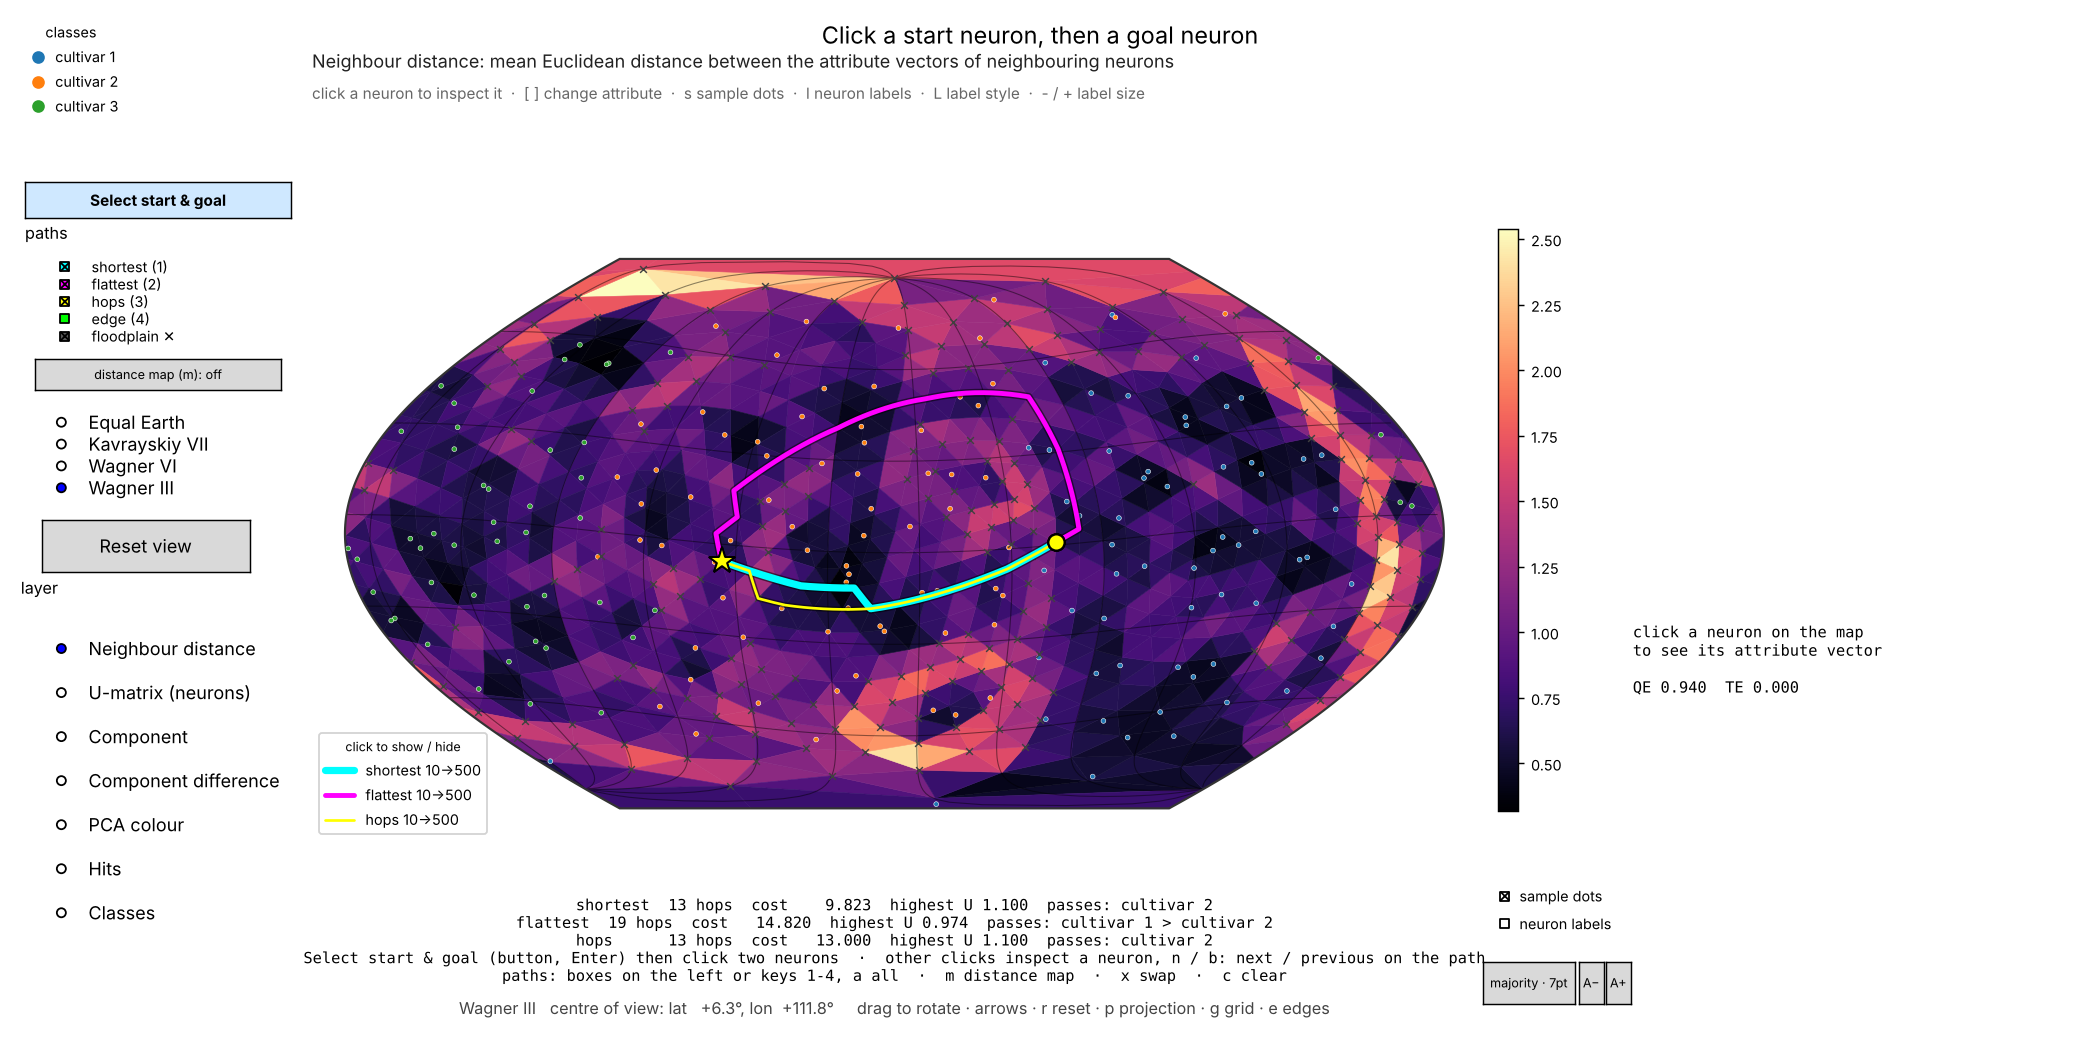
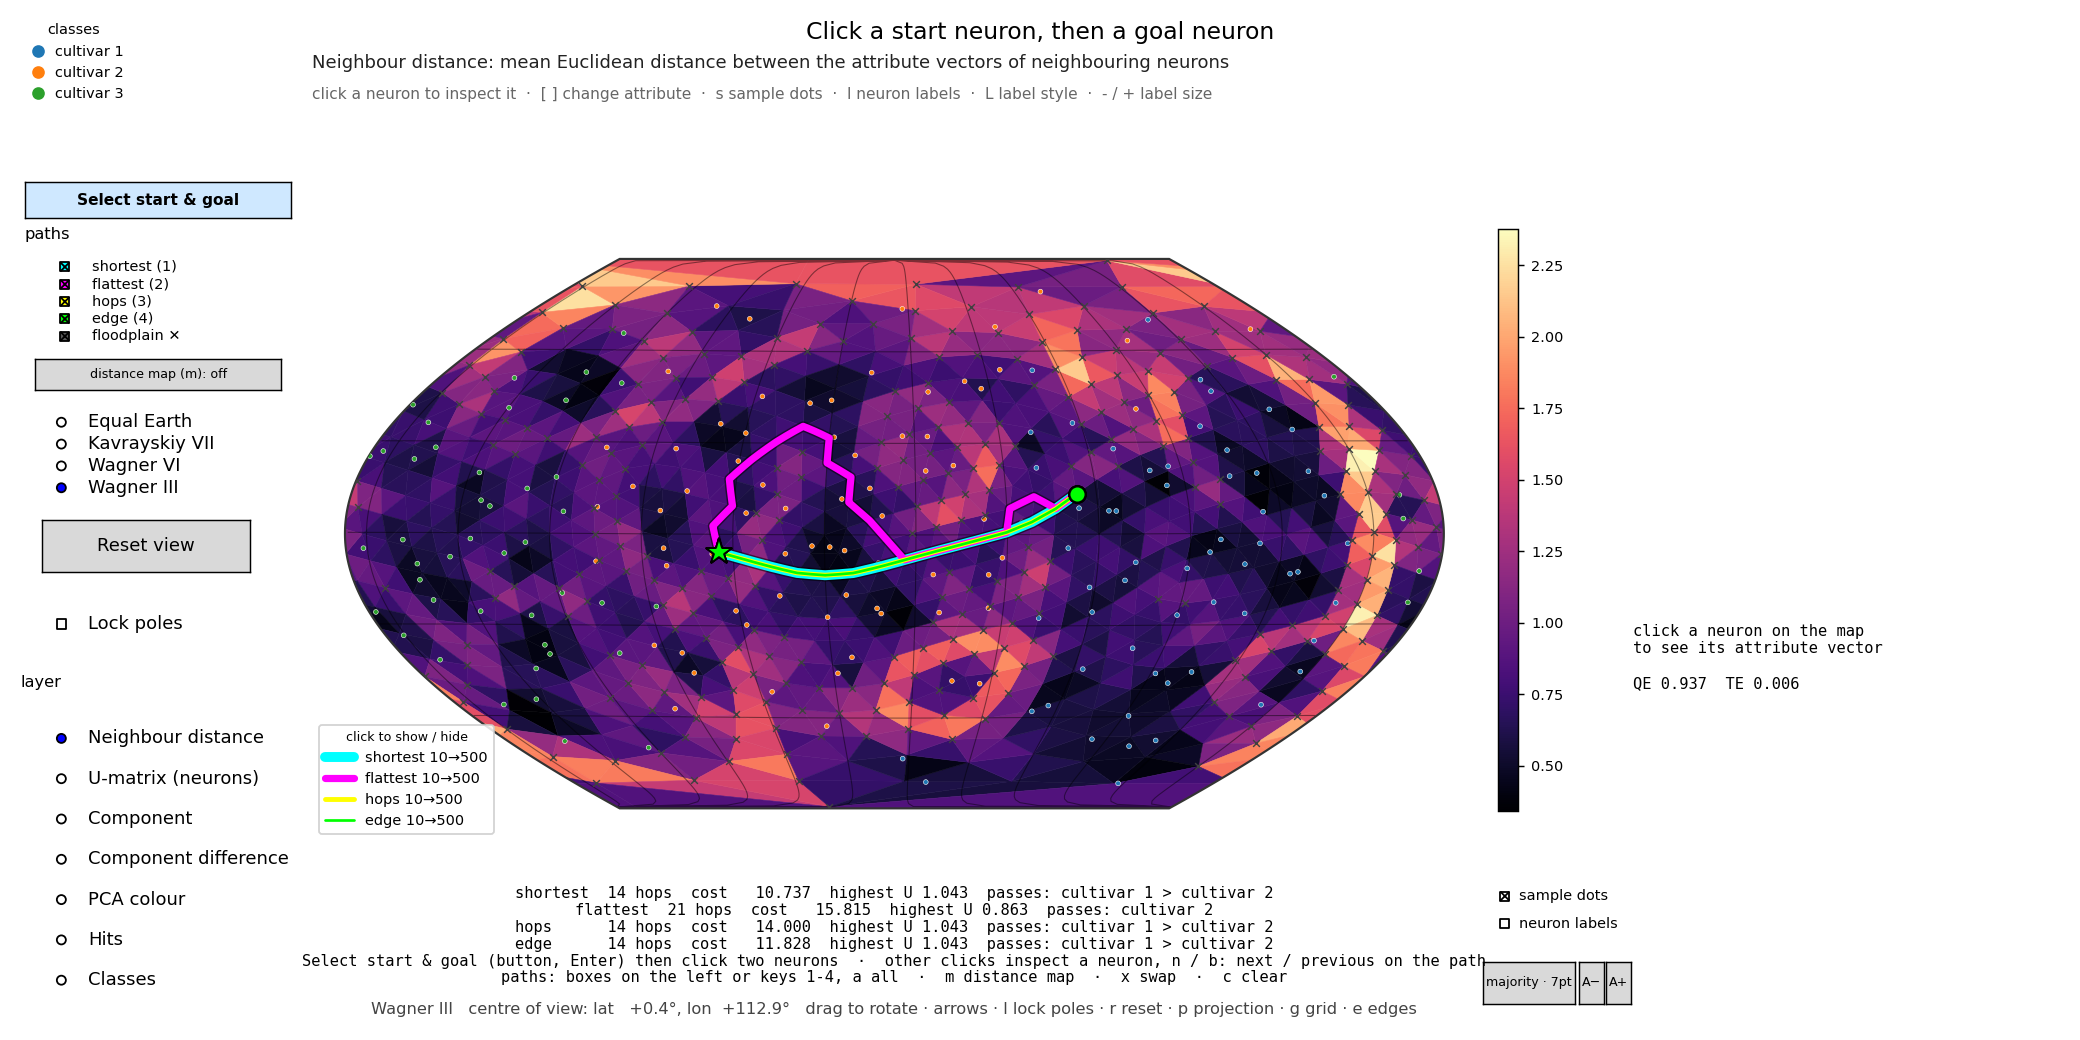
Regenerate the screenshots with GeodesicDome's Lock poles check box.
PathViewer and PathPicker get the Lock poles box from GeoSOM's SOMViewer, with
GeoSOM's layer list now placed below it. All images in docs/images and
examples/output are remade with the current GeoSOM and GeodesicDome, and the
README's controls table mentions Reset view and Lock poles.

diff --git a/README.md b/README.md
@@ -127,7 +127,7 @@ python examples/03_interactive_paths.py --data penguins --paths shortest,flattes
 | Show or hide the floodplain | the **floodplain ✕** check box: crosses on the neurons above the flattest path's threshold |
 | Colour the map by a distance map | the **distance map** button or `m`: each press shows the next shown path's distance map to the goal, then the U-matrix again |
 | Swap start and goal / clear | `x` / `c` |
-| Rotate, change projection, layers, labels | as in GeoSOM's `SOMViewer`: drag, arrow keys, the projection and layer lists, `s` sample dots, `l` labels, … |
+| Rotate, change projection, layers, labels | as in GeoSOM's `SOMViewer`: drag, arrow keys, the projection list, *Reset view*, the *Lock poles* check box (keeps the north pole at the top while you drag) and the layer list below it, `s` sample dots, `l` labels, … |
 
 The panel under the map lists each path's number of hops, its cost, the highest U-height it climbs and the classes of the
 samples it passes. Example options: `--data` (iris, penguins, wine, clusters, a CSV file, or `tree`), `--paths`
